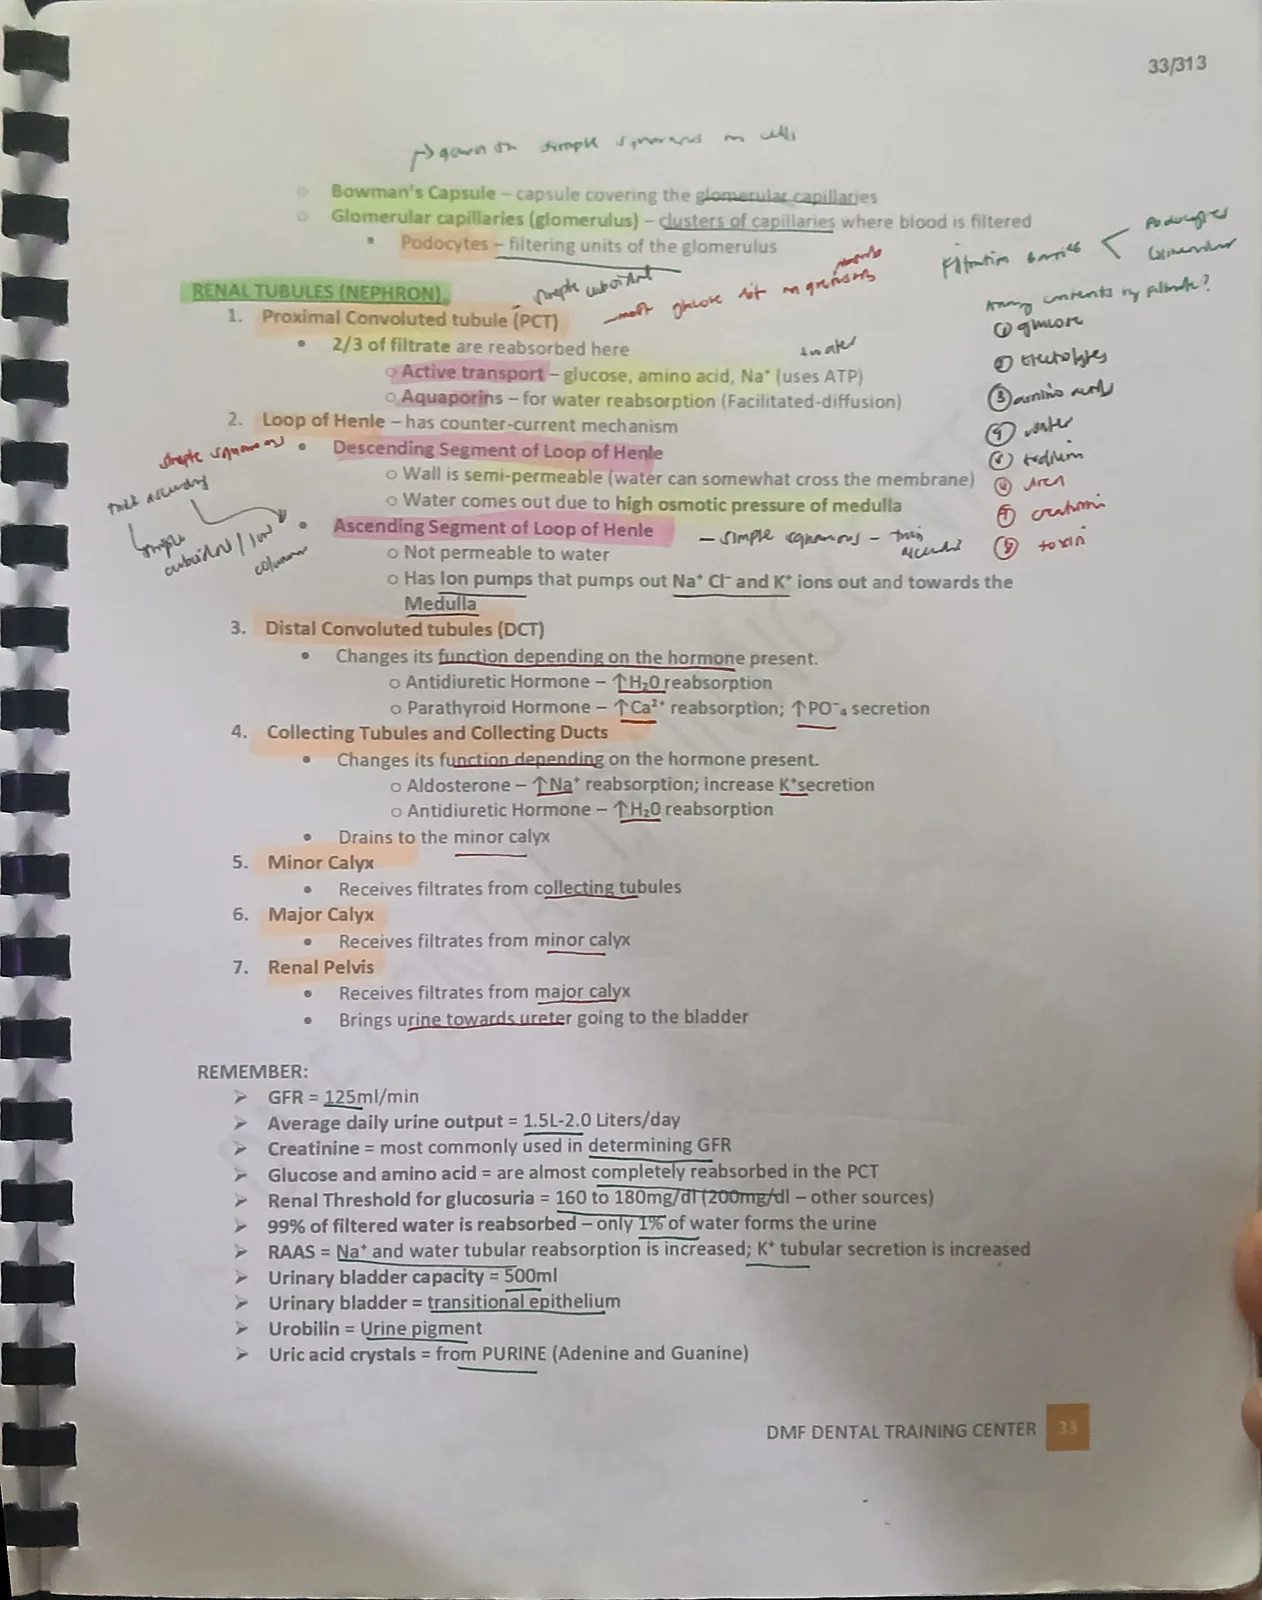
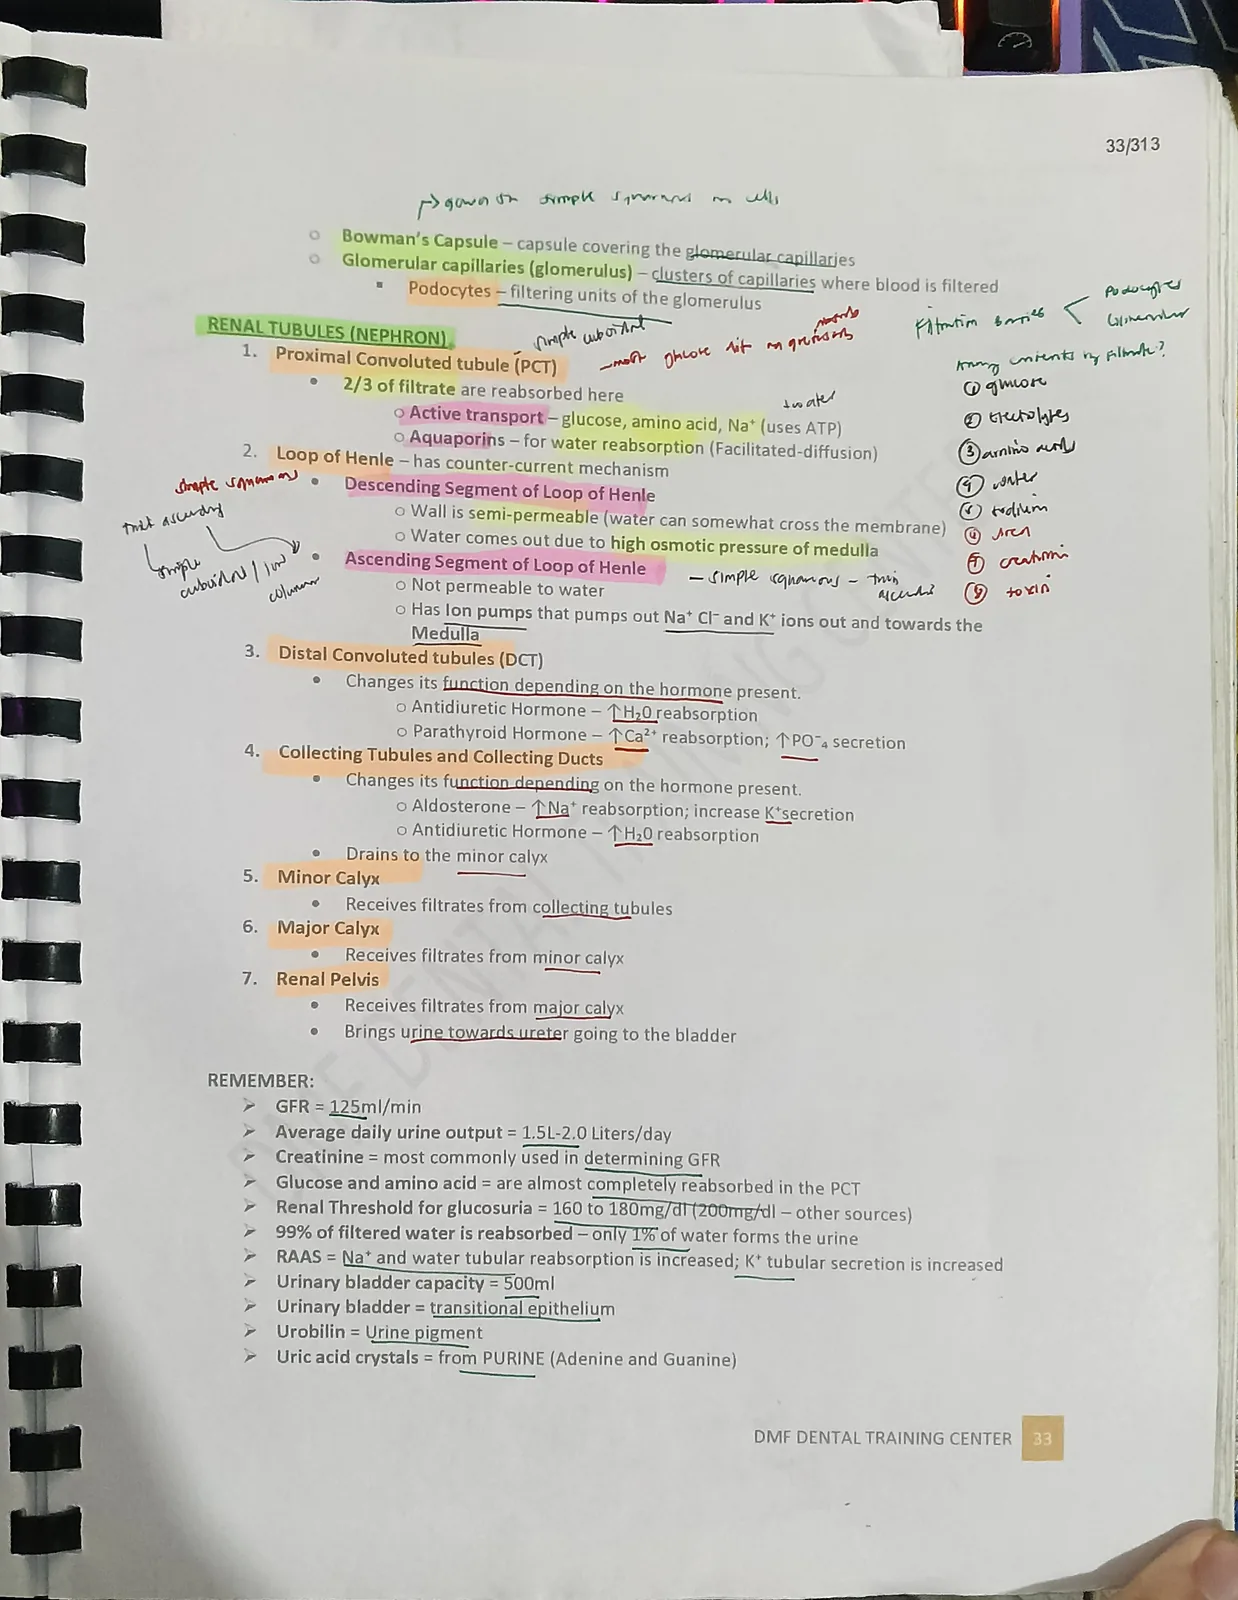
feat: replace pages 33, 36, 37, 54, 55 with ultra-sharp retakes and bump service worker cache to v4

diff --git a/public/sw.js b/public/sw.js
@@ -1,5 +1,5 @@
 // Service Worker for Dr. Leane DLE Reviewer PWA
-const CACHE_NAME = "dr-leane-dle-v3";
+const CACHE_NAME = "dr-leane-dle-v4";
 const STATIC_ASSETS = [
   "/",
   "/index.html",
